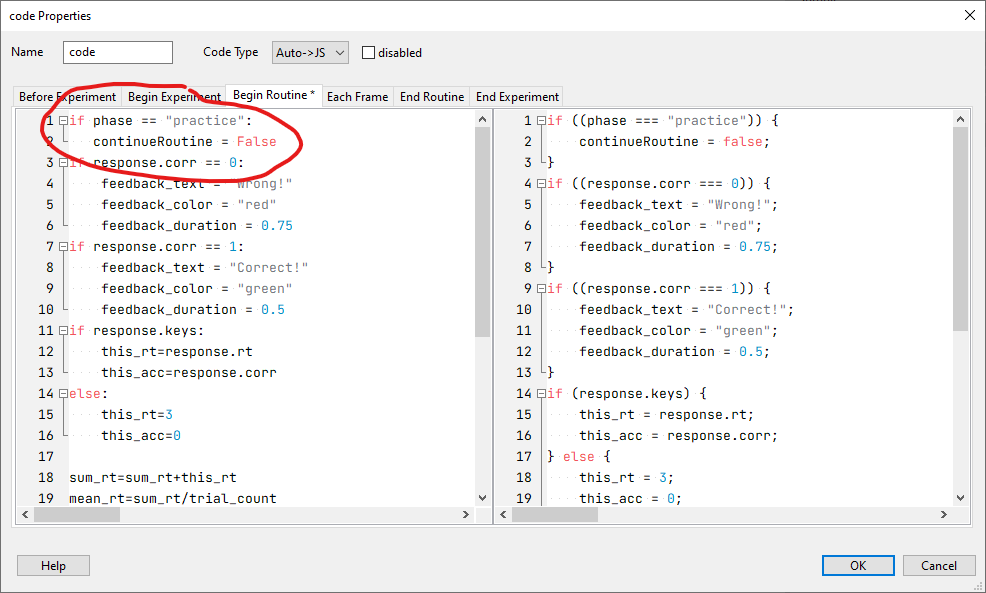
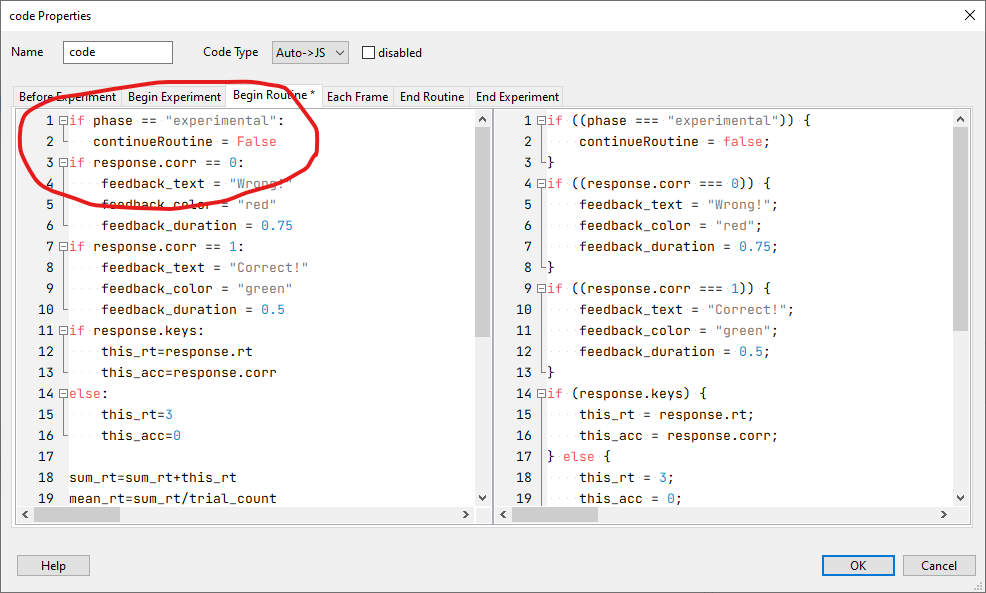
final version+

Changed region(s): [[0.0, 0.1214, 0.3347, 0.3642], [0.6998, 0.1821, 0.8215, 0.2125]]

diff --git a/docs/feedback.html b/docs/feedback.html
@@ -6,15 +6,15 @@
 <meta name="viewport" content="width=device-width, initial-scale=1, shrink-to-fit=no">
 <title>Chapter 4 Feedback | CaL Lexical Decision Task Edits</title>
 <meta name="author" content="the CaL Teaching Team">
-<meta name="description" content="Turn off feedback in the experimental (but not the practice) block. The routine that contains the feedback is trial_feedback. Click on trial_feedback. See the code component. Click on it. Put your...">
+<meta name="description" content="Turn off feedback in the experimental (but not the practice) block. The routine that contains the feedback is trial_feedback. Click on trial_feedback. See the code component. Click on the code...">
 <meta name="generator" content="bookdown 0.24 with bs4_book()">
 <meta property="og:title" content="Chapter 4 Feedback | CaL Lexical Decision Task Edits">
 <meta property="og:type" content="book">
 <meta property="og:url" content="https://cal20212022.github.io/cal_01_lex_dec_edits/feedback.html">
-<meta property="og:description" content="Turn off feedback in the experimental (but not the practice) block. The routine that contains the feedback is trial_feedback. Click on trial_feedback. See the code component. Click on it. Put your...">
+<meta property="og:description" content="Turn off feedback in the experimental (but not the practice) block. The routine that contains the feedback is trial_feedback. Click on trial_feedback. See the code component. Click on the code...">
 <meta name="twitter:card" content="summary">
 <meta name="twitter:title" content="Chapter 4 Feedback | CaL Lexical Decision Task Edits">
-<meta name="twitter:description" content="Turn off feedback in the experimental (but not the practice) block. The routine that contains the feedback is trial_feedback. Click on trial_feedback. See the code component. Click on it. Put your...">
+<meta name="twitter:description" content="Turn off feedback in the experimental (but not the practice) block. The routine that contains the feedback is trial_feedback. Click on trial_feedback. See the code component. Click on the code...">
 <!-- JS --><script src="https://cdnjs.cloudflare.com/ajax/libs/clipboard.js/2.0.6/clipboard.min.js" integrity="sha256-inc5kl9MA1hkeYUt+EC3BhlIgyp/2jDIyBLS6k3UxPI=" crossorigin="anonymous"></script><script src="https://cdnjs.cloudflare.com/ajax/libs/fuse.js/6.4.6/fuse.js" integrity="sha512-zv6Ywkjyktsohkbp9bb45V6tEMoWhzFzXis+LrMehmJZZSys19Yxf1dopHx7WzIKxr5tK2dVcYmaCk2uqdjF4A==" crossorigin="anonymous"></script><script src="https://kit.fontawesome.com/6ecbd6c532.js" crossorigin="anonymous"></script><script src="libs/header-attrs-2.11/header-attrs.js"></script><script src="libs/jquery-3.6.0/jquery-3.6.0.min.js"></script><meta name="viewport" content="width=device-width, initial-scale=1, shrink-to-fit=no">
 <link href="libs/bootstrap-4.6.0/bootstrap.min.css" rel="stylesheet">
 <script src="libs/bootstrap-4.6.0/bootstrap.bundle.min.js"></script><script src="libs/bs3compat-0.3.1/transition.js"></script><script src="libs/bs3compat-0.3.1/tabs.js"></script><script src="libs/bs3compat-0.3.1/bs3compat.js"></script><link href="libs/bs4_book-1.0.0/bs4_book.css" rel="stylesheet">
@@ -56,9 +56,15 @@
 <h1>
 <span class="header-section-number">4</span> Feedback<a class="anchor" aria-label="anchor" href="#feedback"><i class="fas fa-link"></i></a>
 </h1>
+<div class="rmdnote">
 <p>Turn off feedback in the experimental (but not the practice) block.</p>
-<p>The routine that contains the feedback is <code>trial_feedback</code>. Click on <code>trial_feedback</code>.</p>
-<p>See the <code>code</code> component. Click on it.</p>
+</div>
+<p>The routine that contains the feedback is <code>trial_feedback</code>.</p>
+<div class="inline-figure"><img src="images/feedback0.png" style="width:100.0%"></div>
+<p>Click on <code>trial_feedback</code>.</p>
+<p>See the <code>code</code> component.</p>
+<div class="inline-figure"><img src="images/feedback00.png" style="width:100.0%"></div>
+<p>Click on the <code>code</code> component..</p>
 <div class="inline-figure"><img src="images/feedback1.png" style="width:100.0%"></div>
 <p>Put your cursor in the first line of the left hand side.</p>
 <p>Type:</p>
@@ -90,7 +96,7 @@
 <footer class="bg-primary text-light mt-5"><div class="container"><div class="row">
 
   <div class="col-12 col-md-6 mt-3">
-    <p>"<strong>CaL Lexical Decision Task Edits</strong>: for week 2" was written by the CaL Teaching Team. It was last built on Sunday 13 February 2022 at 11:55:03.</p>
+    <p>"<strong>CaL Lexical Decision Task Edits</strong>: for week 2" was written by the CaL Teaching Team. It was last built on Sunday 13 February 2022 at 12:37:02.</p>
   </div>
 
   <div class="col-12 col-md-6 mt-3">

diff --git a/docs/stimulus-duration.html b/docs/stimulus-duration.html
@@ -56,9 +56,17 @@
 <h1>
 <span class="header-section-number">3</span> Stimulus duration<a class="anchor" aria-label="anchor" href="#stimulus-duration"><i class="fas fa-link"></i></a>
 </h1>
+<div class="rmdnote">
 <p>Increase the stimulus duration from 3 to 5 seconds.</p>
-<p>The routine that contains the stimulus is <code>trial</code>. Click on <code>trial</code>. See the TextBox called <code>word</code>. Click on <code>word</code> to bring up its properties. See that <code>duration</code> is set to 3.0 seconds.</p>
+</div>
+<p>The routine that contains the stimulus is <code>trial</code>.</p>
+<div class="inline-figure"><img src="images/stimdur1.png" style="width:100.0%"></div>
+<p>Click on <code>trial</code>.</p>
+<p>See the TextBox called <code>word</code>.</p>
+<div class="inline-figure"><img src="images/stimdur2.png" style="width:100.0%"></div>
+<p>Click on <code>word</code> to bring up its properties.</p>
 <div class="inline-figure"><img src="images/stimdur.png" style="width:100.0%"></div>
+<p>See that <code>duration</code> is set to <code>3.0</code> seconds.</p>
 <p>To change the duration to 5 seconds, replace <code>3.0</code> with <code>5.0</code></p>
 
 </div>
@@ -83,7 +91,7 @@
 <footer class="bg-primary text-light mt-5"><div class="container"><div class="row">
 
   <div class="col-12 col-md-6 mt-3">
-    <p>"<strong>CaL Lexical Decision Task Edits</strong>: for week 2" was written by the CaL Teaching Team. It was last built on Sunday 13 February 2022 at 11:55:03.</p>
+    <p>"<strong>CaL Lexical Decision Task Edits</strong>: for week 2" was written by the CaL Teaching Team. It was last built on Sunday 13 February 2022 at 12:37:02.</p>
   </div>
 
   <div class="col-12 col-md-6 mt-3">

diff --git a/docs/colours.html b/docs/colours.html
@@ -56,7 +56,9 @@
 <h1>
 <span class="header-section-number">2</span> Colours<a class="anchor" aria-label="anchor" href="#colours"><i class="fas fa-link"></i></a>
 </h1>
+<div class="rmdnote">
 <p>Change the screen colour to white, and the text colour to black, throughout the experiment.</p>
+</div>
 <p>There are two things you need to do to accomplish this.</p>
 <div id="change-the-screen-colour-to-white" class="section level2" number="2.1">
 <h2>
@@ -113,7 +115,7 @@
 <footer class="bg-primary text-light mt-5"><div class="container"><div class="row">
 
   <div class="col-12 col-md-6 mt-3">
-    <p>"<strong>CaL Lexical Decision Task Edits</strong>: for week 2" was written by the CaL Teaching Team. It was last built on Sunday 13 February 2022 at 11:55:03.</p>
+    <p>"<strong>CaL Lexical Decision Task Edits</strong>: for week 2" was written by the CaL Teaching Team. It was last built on Sunday 13 February 2022 at 12:37:02.</p>
   </div>
 
   <div class="col-12 col-md-6 mt-3">

diff --git a/docs/404.html b/docs/404.html
@@ -71,7 +71,7 @@ the table of contents to find the page you are looking for.</p>
 <footer class="bg-primary text-light mt-5"><div class="container"><div class="row">
 
   <div class="col-12 col-md-6 mt-3">
-    <p>"<strong>CaL Lexical Decision Task Edits</strong>: for week 2" was written by the CaL Teaching Team. It was last built on Sunday 13 February 2022 at 11:55:03.</p>
+    <p>"<strong>CaL Lexical Decision Task Edits</strong>: for week 2" was written by the CaL Teaching Team. It was last built on Sunday 13 February 2022 at 12:37:02.</p>
   </div>
 
   <div class="col-12 col-md-6 mt-3">

diff --git a/docs/index.html b/docs/index.html
@@ -109,7 +109,7 @@
 <footer class="bg-primary text-light mt-5"><div class="container"><div class="row">
 
   <div class="col-12 col-md-6 mt-3">
-    <p>"<strong>CaL Lexical Decision Task Edits</strong>: for week 2" was written by the CaL Teaching Team. It was last built on Sunday 13 February 2022 at 11:55:03.</p>
+    <p>"<strong>CaL Lexical Decision Task Edits</strong>: for week 2" was written by the CaL Teaching Team. It was last built on Sunday 13 February 2022 at 12:37:02.</p>
   </div>
 
   <div class="col-12 col-md-6 mt-3">

diff --git a/docs/02-stim-dur.md b/docs/02-stim-dur.md
@@ -1,9 +1,23 @@
 # Stimulus duration
 
+::: {.rmdnote}
 Increase the stimulus duration from 3 to 5 seconds.
+:::
 
-The routine that contains the stimulus is `trial`. Click on `trial`. See the TextBox called `word`. Click on `word` to bring up its properties. See that `duration` is set to 3.0 seconds.
+The routine that contains the stimulus is `trial`. 
+
+![](images/stimdur1.png){width="100%"}
+
+Click on `trial`. 
+
+See the TextBox called `word`. 
+
+![](images/stimdur2.png){width="100%"}
+
+Click on `word` to bring up its properties.
 
 ![](images/stimdur.png){width="100%"}
 
+See that `duration` is set to `3.0` seconds.
+ 
 To change the duration to 5 seconds, replace `3.0` with `5.0`

diff --git a/docs/03-feedback.md b/docs/03-feedback.md
@@ -1,10 +1,20 @@
 # Feedback
 
+::: {.rmdnote}
 Turn off feedback in the experimental (but not the practice) block.
+:::
 
-The routine that contains the feedback is `trial_feedback`. Click on `trial_feedback`.
+The routine that contains the feedback is `trial_feedback`. 
 
-See the `code` component. Click on it.
+![](images/feedback0.png){width="100%"}
+
+Click on `trial_feedback`.
+
+See the `code` component. 
+
+![](images/feedback00.png){width="100%"}
+
+Click on the `code` component..
 
 ![](images/feedback1.png){width="100%"}
 

diff --git a/docs/index.md b/docs/index.md
@@ -2,7 +2,7 @@
 title: "CaL Lexical Decision Task Edits"
 subtitle: "for week 2"
 author: "the CaL Teaching Team"
-date: "Sunday 13 February 2022 at 11:55:03"
+date: "Sunday 13 February 2022 at 12:37:02"
 site: bookdown::bookdown_site
 documentclass: book
 bibliography: [book.bib, packages.bib]

diff --git a/docs/01-change-colours.md b/docs/01-change-colours.md
@@ -1,6 +1,8 @@
 # Colours
 
+::: {.rmdnote}
 Change the screen colour to white, and the text colour to black, throughout the experiment.
+:::
 
 There are two things you need to do to accomplish this.
 
